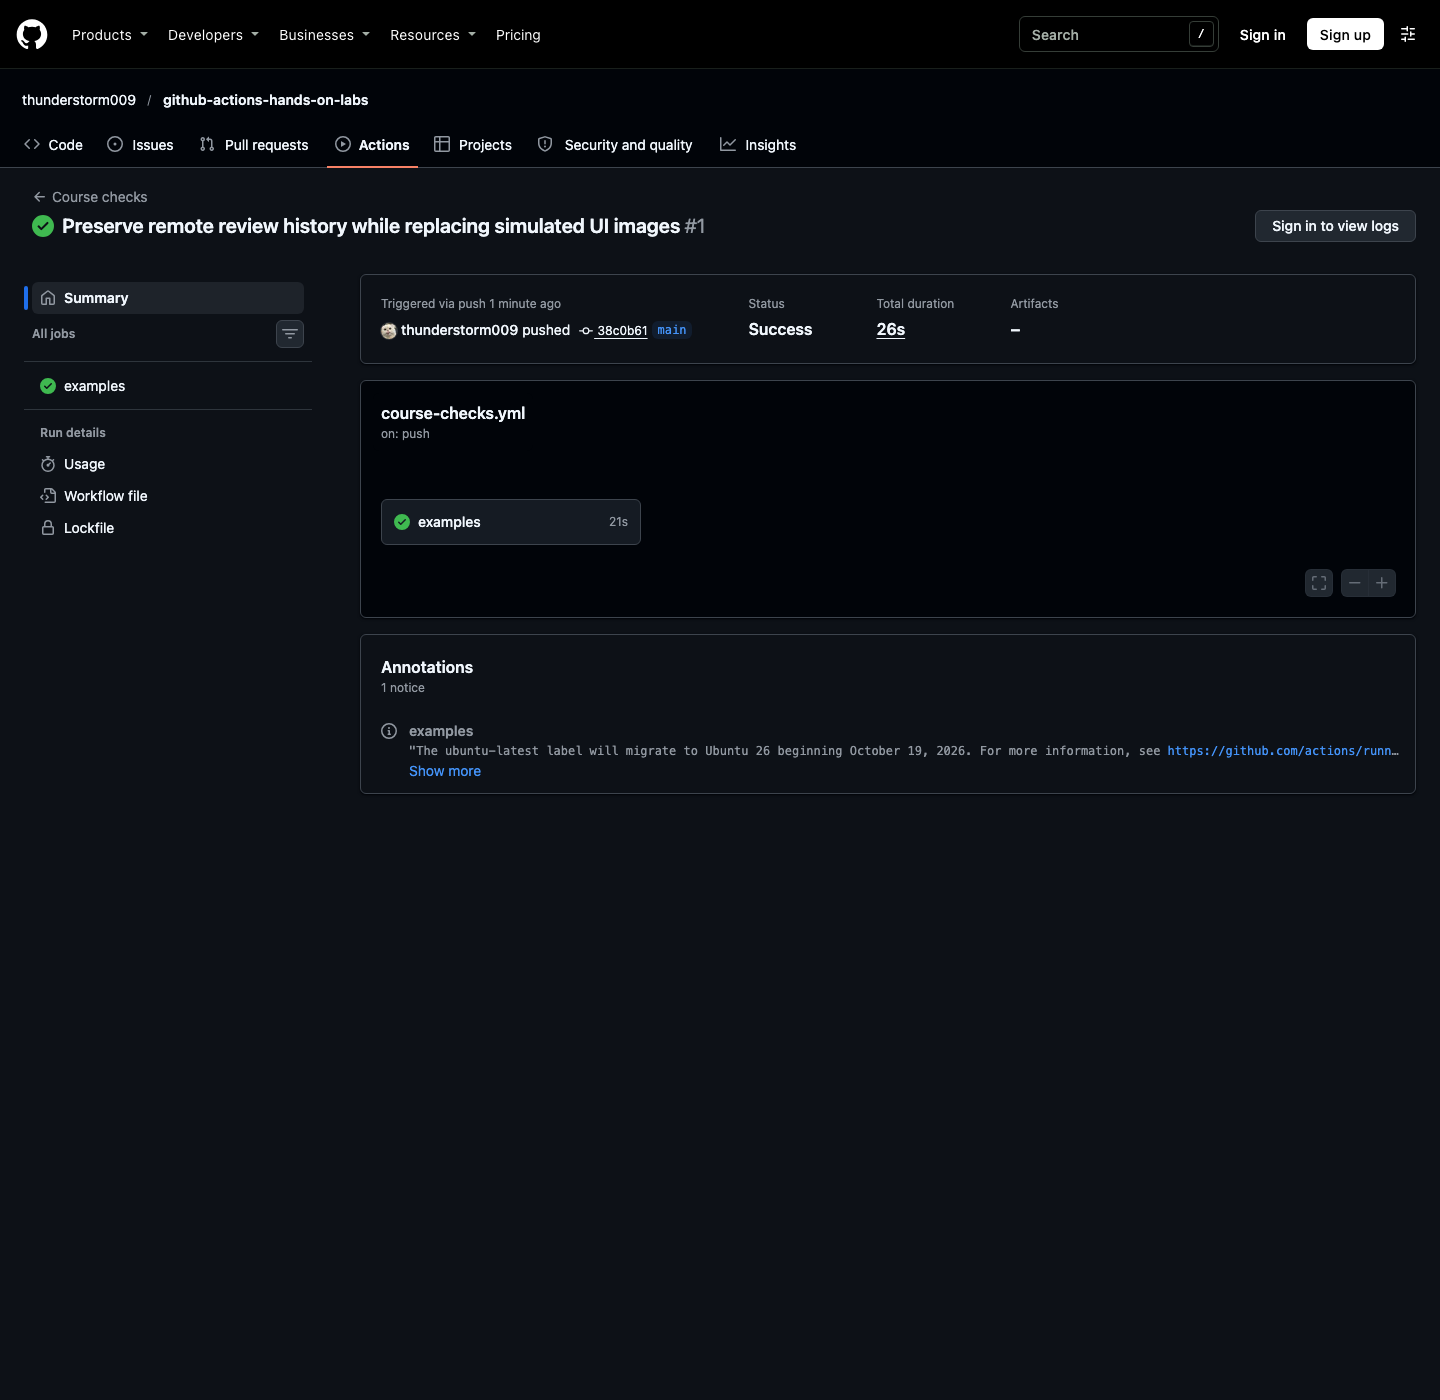
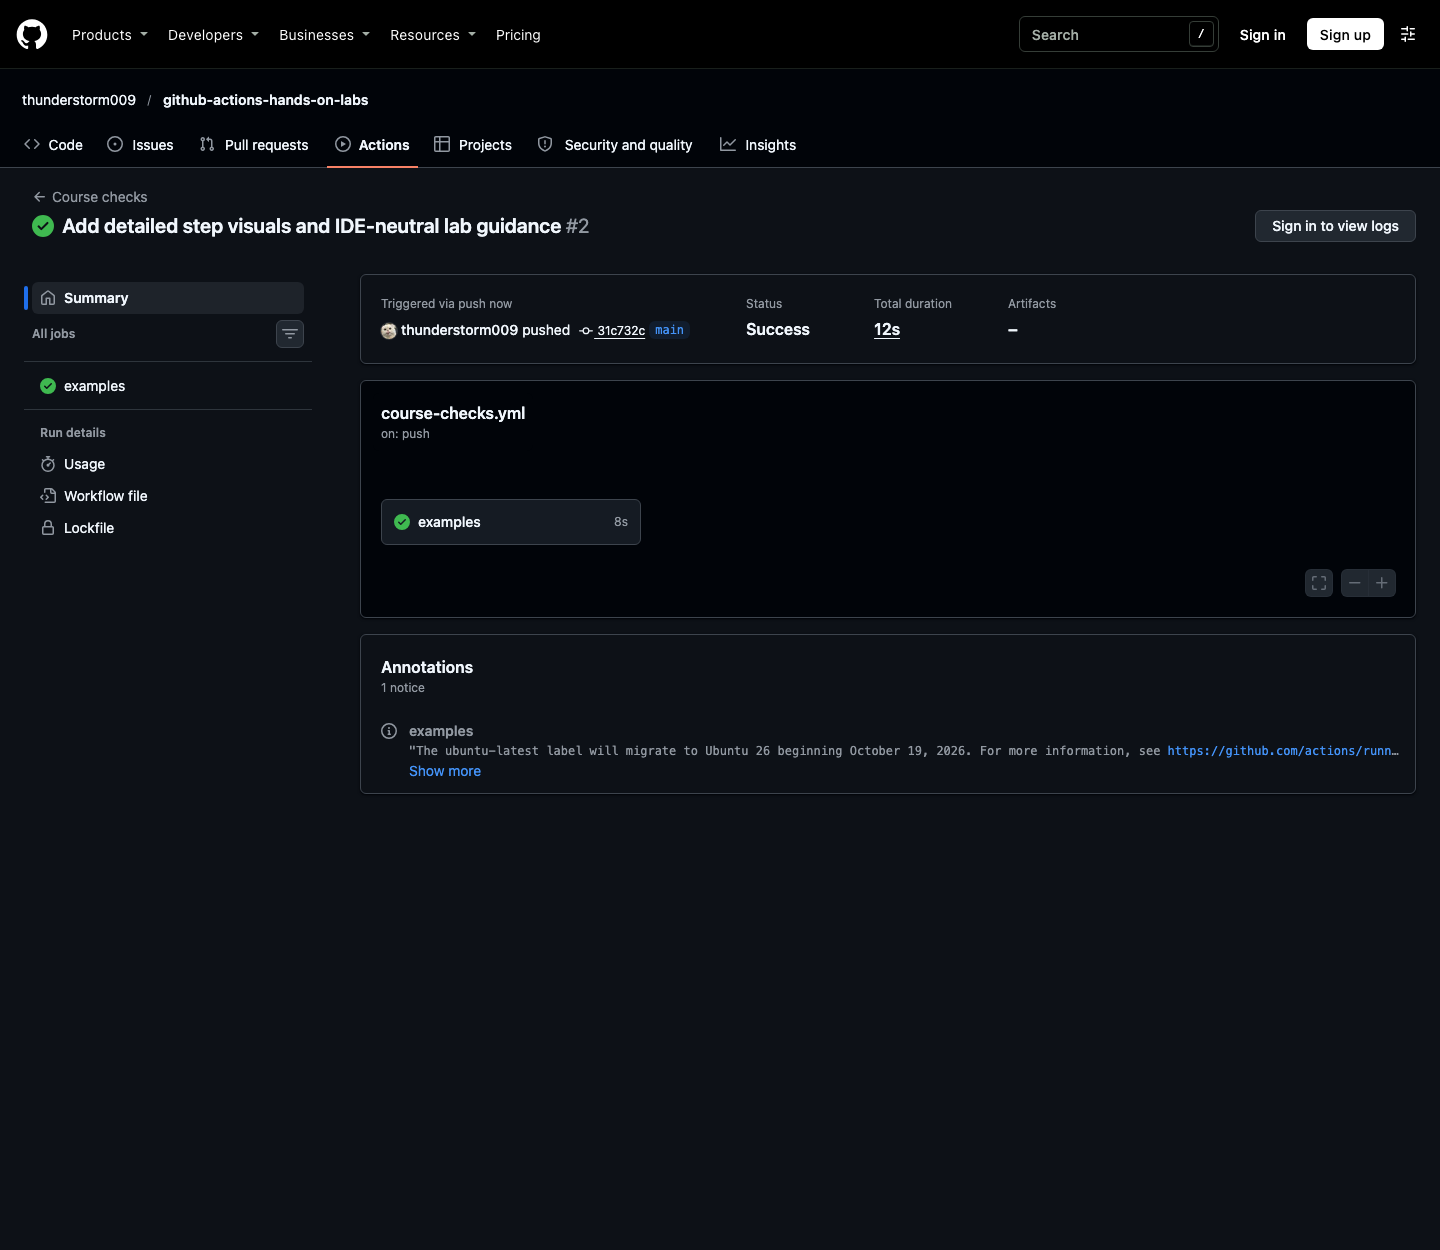
Add verified GitHub UI captures to visual audit

diff --git a/docs/VISUAL-AUDIT.md b/docs/VISUAL-AUDIT.md
@@ -15,7 +15,7 @@ This checklist distinguishes conceptual drawings and annotated output illustrati
 ## Actual capture provenance
 
 - `01-introduction-to-github-actions/images/screenshots/course-repository-page.png` is a real Chrome headless capture of the public repository page.
-- `01-introduction-to-github-actions/images/screenshots/course-checks-actions-run.png` is a real Chrome headless capture of the public run summary at [run 44066410242](https://github.com/thunderstorm009/github-actions-hands-on-labs/actions/runs/44066410242). GitHub's public page showed the successful job graph; the run's Jobs API independently showed each test, lint, SVG and link-validation step completed successfully. This validates the course repository, not any lab workflow in a learner's practice repository.
+- `01-introduction-to-github-actions/images/screenshots/course-checks-actions-run.png` is a real Chrome headless capture of the public run summary at [run 44068246516](https://github.com/thunderstorm009/github-actions-hands-on-labs/actions/runs/44068246516). GitHub's public page showed the successful job graph; the run's Jobs API independently showed each test, lint, SVG and link-validation step completed successfully. This validates the course repository, not any lab workflow in a learner's practice repository.
 - Lab 05's pytest and Ruff output illustration reflects commands actually run locally. It is explicitly not a screenshot and not GitHub execution evidence.
 
 All other screenshot cards state the target application/page/command, required visible signal and capture procedure. A missing genuine capture is labeled as unavailable rather than simulated.

diff --git a/01-introduction-to-github-actions/images/screenshots/README.md b/01-introduction-to-github-actions/images/screenshots/README.md
@@ -7,7 +7,7 @@ Learner-specific practice captures are intentionally absent until produced from 
 | Filename | Application and exact page/command | What must be visible |
 |---|---|---|
 | `course-repository-page.png` | Chrome, public course repository home | Real repo name, public badge and lab folders; proves repository publication only. |
-| `course-checks-actions-run.png` | Chrome, actual course Actions run summary | Shows green course-checks job for commit `38c0b61`; not a Lab 01 practice run. |
+| `course-checks-actions-run.png` | Chrome, actual course Actions run summary | Shows green course-checks job for commit `31c732c`; not a Lab 01 practice run. |
 | `01-ide-project.png` | Your IDE project/file explorer or editor | Practice project path and relevant source; no hidden credentials. |
 | `02-workflow-yaml.png` | Your IDE project/file explorer or editor | Practice project path and relevant source; no hidden credentials. |
 | `03-git-push-terminal.png` | Real local terminal at the stated lab directory | Command and unedited output; IDs and local usernames may be redacted. |

diff --git a/docs/templates/LAB-TEMPLATE.md b/docs/templates/LAB-TEMPLATE.md
@@ -16,7 +16,7 @@ What, why, where, build and outcomes.
 Explain terms; add Mermaid diagram.
 
 ## Prerequisites and setup
-List versions and checks; VS Code and shell steps.
+List versions and checks; document an editor-neutral project/terminal path, with VS Code as an illustrated option.
 
 ## Task and project structure
 Show exact tree and working directory.
